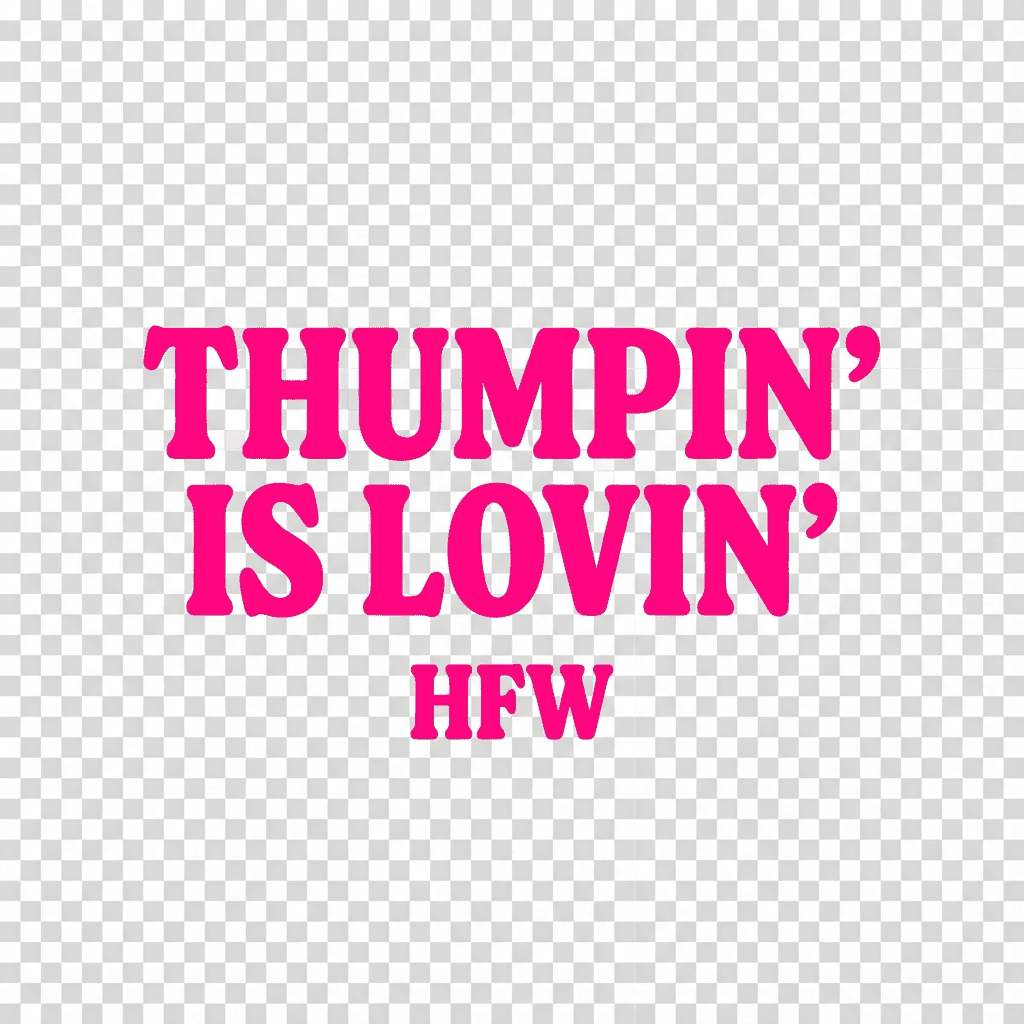
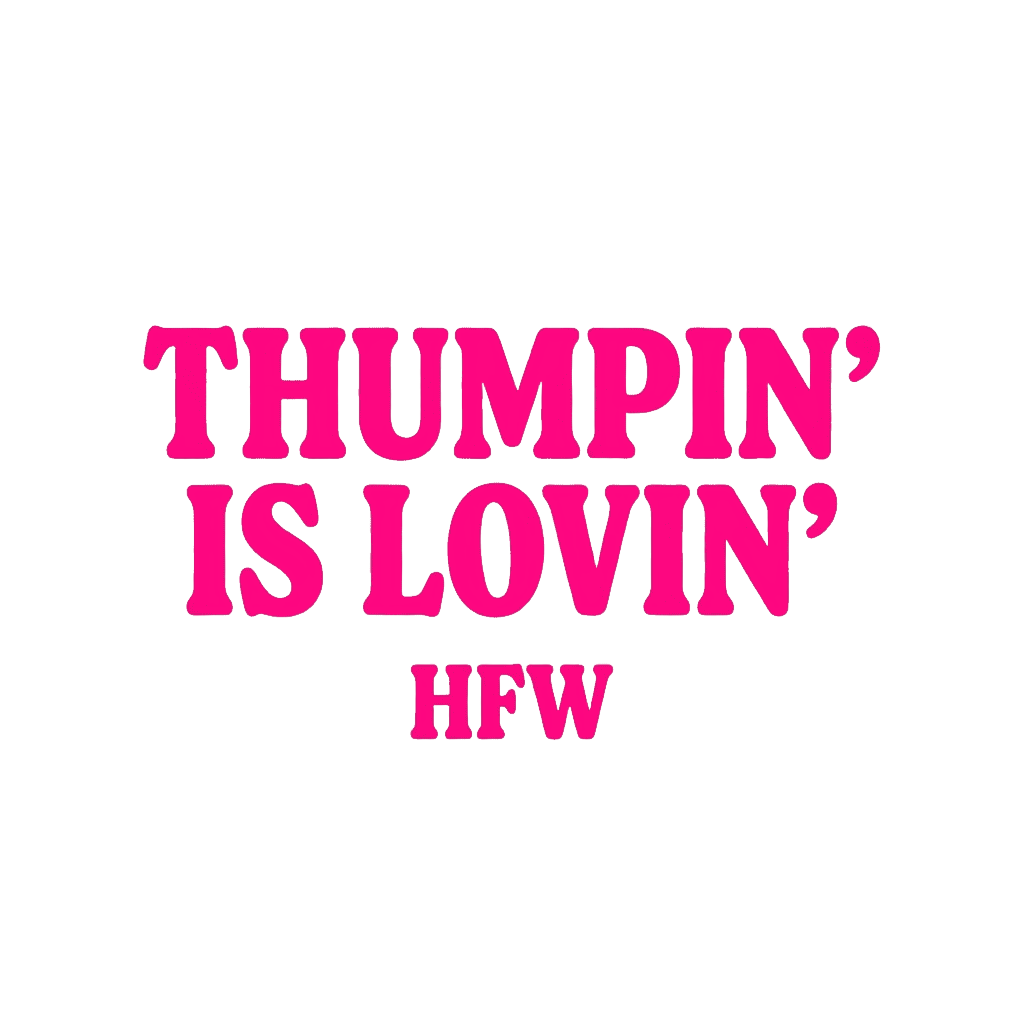
Remove backgrounds from all new graphics - now transparent PNGs

diff --git a/src/index.tsx b/src/index.tsx
@@ -152,157 +152,157 @@ const graphics = [
   {
     id: 'hfw-black-3d',
     name: 'HFW 3D Black',
-    thumbnail: '/images/graphics/hfw-logo-black-3d.png?v=7',
-    fullImage: '/images/graphics/hfw-logo-black-3d.png?v=7',
+    thumbnail: '/images/graphics/hfw-logo-black-3d.png?v=8',
+    fullImage: '/images/graphics/hfw-logo-black-3d.png?v=8',
     restrictToGarments: []
   },
   {
     id: 'hfw-black-shadow',
     name: 'HFW Black Shadow',
-    thumbnail: '/images/graphics/hfw-logo-black-shadow.png?v=7',
-    fullImage: '/images/graphics/hfw-logo-black-shadow.png?v=7',
+    thumbnail: '/images/graphics/hfw-logo-black-shadow.png?v=8',
+    fullImage: '/images/graphics/hfw-logo-black-shadow.png?v=8',
     restrictToGarments: []
   },
   {
     id: 'hfw-metal-gloves',
     name: 'HFW Metal Gloves',
-    thumbnail: '/images/graphics/hfw-logo-metal-gloves.png?v=7',
-    fullImage: '/images/graphics/hfw-logo-metal-gloves.png?v=7',
+    thumbnail: '/images/graphics/hfw-logo-metal-gloves.png?v=8',
+    fullImage: '/images/graphics/hfw-logo-metal-gloves.png?v=8',
     restrictToGarments: []
   },
   {
     id: 'hfw-white-outline',
     name: 'HFW White Outline',
-    thumbnail: '/images/graphics/hfw-logo-white-outline.png?v=7',
-    fullImage: '/images/graphics/hfw-logo-white-outline.png?v=7',
+    thumbnail: '/images/graphics/hfw-logo-white-outline.png?v=8',
+    fullImage: '/images/graphics/hfw-logo-white-outline.png?v=8',
     restrictToGarments: []
   },
   {
     id: 'hfw-logo',
     name: 'HFW Logo',
-    thumbnail: '/images/graphics/hfw-logo-original.png?v=7',
-    fullImage: '/images/graphics/hfw-logo-original.png?v=7',
+    thumbnail: '/images/graphics/hfw-logo-original.png?v=8',
+    fullImage: '/images/graphics/hfw-logo-original.png?v=8',
     restrictToGarments: []
   },
   {
     id: 'human-cockfighter',
     name: 'Human Cockfighter',
-    thumbnail: '/images/graphics/human-cockfighter.png?v=7',
-    fullImage: '/images/graphics/human-cockfighter.png?v=7',
+    thumbnail: '/images/graphics/human-cockfighter.png?v=8',
+    fullImage: '/images/graphics/human-cockfighter.png?v=8',
     restrictToGarments: []
   },
   {
     id: 'thump-a-stranger',
     name: 'Thump A Stranger',
-    thumbnail: '/images/graphics/thump-a-stranger.png?v=7',
-    fullImage: '/images/graphics/thump-a-stranger.png?v=7',
+    thumbnail: '/images/graphics/thump-a-stranger.png?v=8',
+    fullImage: '/images/graphics/thump-a-stranger.png?v=8',
     restrictToGarments: []
   },
   {
     id: 'gpg-design',
     name: 'GPG Design',
-    thumbnail: '/images/graphics/gpg-design.png?v=7',
-    fullImage: '/images/graphics/gpg-design.png?v=7',
+    thumbnail: '/images/graphics/gpg-design.png?v=8',
+    fullImage: '/images/graphics/gpg-design.png?v=8',
     restrictToGarments: []
   },
   {
     id: 'yycf-logo',
     name: 'YYCF Logo',
-    thumbnail: '/images/graphics/yycf-logo.png?v=7',
-    fullImage: '/images/graphics/yycf-logo.png?v=7',
+    thumbnail: '/images/graphics/yycf-logo.png?v=8',
+    fullImage: '/images/graphics/yycf-logo.png?v=8',
     restrictToGarments: []
   },
   {
     id: 'fun-logo',
     name: 'FUN Logo',
-    thumbnail: '/images/graphics/fun-logo.png?v=7',
-    fullImage: '/images/graphics/fun-logo.png?v=7',
+    thumbnail: '/images/graphics/fun-logo.png?v=8',
+    fullImage: '/images/graphics/fun-logo.png?v=8',
     restrictToGarments: []
   },
   // NEW GRAPHICS - Added from Shop Now products
   {
     id: 'myob',
     name: 'MYOB (Mind Y\'own Business)',
-    thumbnail: '/images/graphics/myob.png?v=7',
-    fullImage: '/images/graphics/myob.png?v=7',
+    thumbnail: '/images/graphics/myob.png?v=8',
+    fullImage: '/images/graphics/myob.png?v=8',
     restrictToGarments: []
   },
   {
     id: 'gnf',
     name: 'GNF',
-    thumbnail: '/images/graphics/gnf.png?v=7',
-    fullImage: '/images/graphics/gnf.png?v=7',
+    thumbnail: '/images/graphics/gnf.png?v=8',
+    fullImage: '/images/graphics/gnf.png?v=8',
     restrictToGarments: []
   },
   {
     id: 'wimb',
     name: 'WIMB (What\'s It Mean To You?)',
-    thumbnail: '/images/graphics/wimb.png?v=7',
-    fullImage: '/images/graphics/wimb.png?v=7',
+    thumbnail: '/images/graphics/wimb.png?v=8',
+    fullImage: '/images/graphics/wimb.png?v=8',
     restrictToGarments: []
   },
   {
     id: 'cling-to-guns',
     name: 'Cling to Guns',
-    thumbnail: '/images/graphics/cling-to-guns.png?v=7',
-    fullImage: '/images/graphics/cling-to-guns.png?v=7',
+    thumbnail: '/images/graphics/cling-to-guns.png?v=8',
+    fullImage: '/images/graphics/cling-to-guns.png?v=8',
     restrictToGarments: []
   },
   {
     id: 'yes-you-can',
     name: 'Yes, You Can',
-    thumbnail: '/images/graphics/yes-you-can.png?v=7',
-    fullImage: '/images/graphics/yes-you-can.png?v=7',
+    thumbnail: '/images/graphics/yes-you-can.png?v=8',
+    fullImage: '/images/graphics/yes-you-can.png?v=8',
     restrictToGarments: []
   },
   {
     id: 'put-it-on-em',
     name: 'Put It On Em',
-    thumbnail: '/images/graphics/put-it-on-em.png?v=7',
-    fullImage: '/images/graphics/put-it-on-em.png?v=7',
+    thumbnail: '/images/graphics/put-it-on-em.png?v=8',
+    fullImage: '/images/graphics/put-it-on-em.png?v=8',
     restrictToGarments: []
   },
   {
     id: 'obama-tap',
     name: 'Obama Tap',
-    thumbnail: '/images/graphics/obama-tap.png?v=7',
-    fullImage: '/images/graphics/obama-tap.png?v=7',
+    thumbnail: '/images/graphics/obama-tap.png?v=8',
+    fullImage: '/images/graphics/obama-tap.png?v=8',
     restrictToGarments: []
   },
   {
     id: 'good-for-community',
     name: 'Good for Community',
-    thumbnail: '/images/graphics/good-for-community.png?v=7',
-    fullImage: '/images/graphics/good-for-community.png?v=7',
+    thumbnail: '/images/graphics/good-for-community.png?v=8',
+    fullImage: '/images/graphics/good-for-community.png?v=8',
     restrictToGarments: []
   },
   {
     id: 'hard-hittin',
     name: 'Hard Hittin\'',
-    thumbnail: '/images/graphics/hard-hittin.png?v=7',
-    fullImage: '/images/graphics/hard-hittin.png?v=7',
+    thumbnail: '/images/graphics/hard-hittin.png?v=8',
+    fullImage: '/images/graphics/hard-hittin.png?v=8',
     restrictToGarments: []
   },
   {
     id: 'staunch-chm',
     name: 'Staunch Properties (CHM)',
-    thumbnail: '/images/graphics/staunch-chm.png?v=7',
-    fullImage: '/images/graphics/staunch-chm.png?v=7',
+    thumbnail: '/images/graphics/staunch-chm.png?v=8',
+    fullImage: '/images/graphics/staunch-chm.png?v=8',
     restrictToGarments: []
   },
   // SPECIAL: Thumpin' Is Lovin' - Women's Only (Tanks and T-Shirts)
   {
     id: 'thumpin-is-lovin-pink',
     name: 'Thumpin\' Is Lovin\' (Pink)',
-    thumbnail: '/images/graphics/thumpin-is-lovin-pink.png?v=7',
-    fullImage: '/images/graphics/thumpin-is-lovin-pink.png?v=7',
+    thumbnail: '/images/graphics/thumpin-is-lovin-pink.png?v=8',
+    fullImage: '/images/graphics/thumpin-is-lovin-pink.png?v=8',
     restrictToGarments: ['tank-womens', 'tshirt']  // Women's tanks and unisex t-shirts
   },
   {
     id: 'thumpin-is-lovin-purple',
     name: 'Thumpin\' Is Lovin\' (Purple)',
-    thumbnail: '/images/graphics/thumpin-is-lovin-purple.png?v=7',
-    fullImage: '/images/graphics/thumpin-is-lovin-purple.png?v=7',
+    thumbnail: '/images/graphics/thumpin-is-lovin-purple.png?v=8',
+    fullImage: '/images/graphics/thumpin-is-lovin-purple.png?v=8',
     restrictToGarments: ['tank-womens', 'tshirt']  // Women's tanks and unisex t-shirts
   }
 ]
